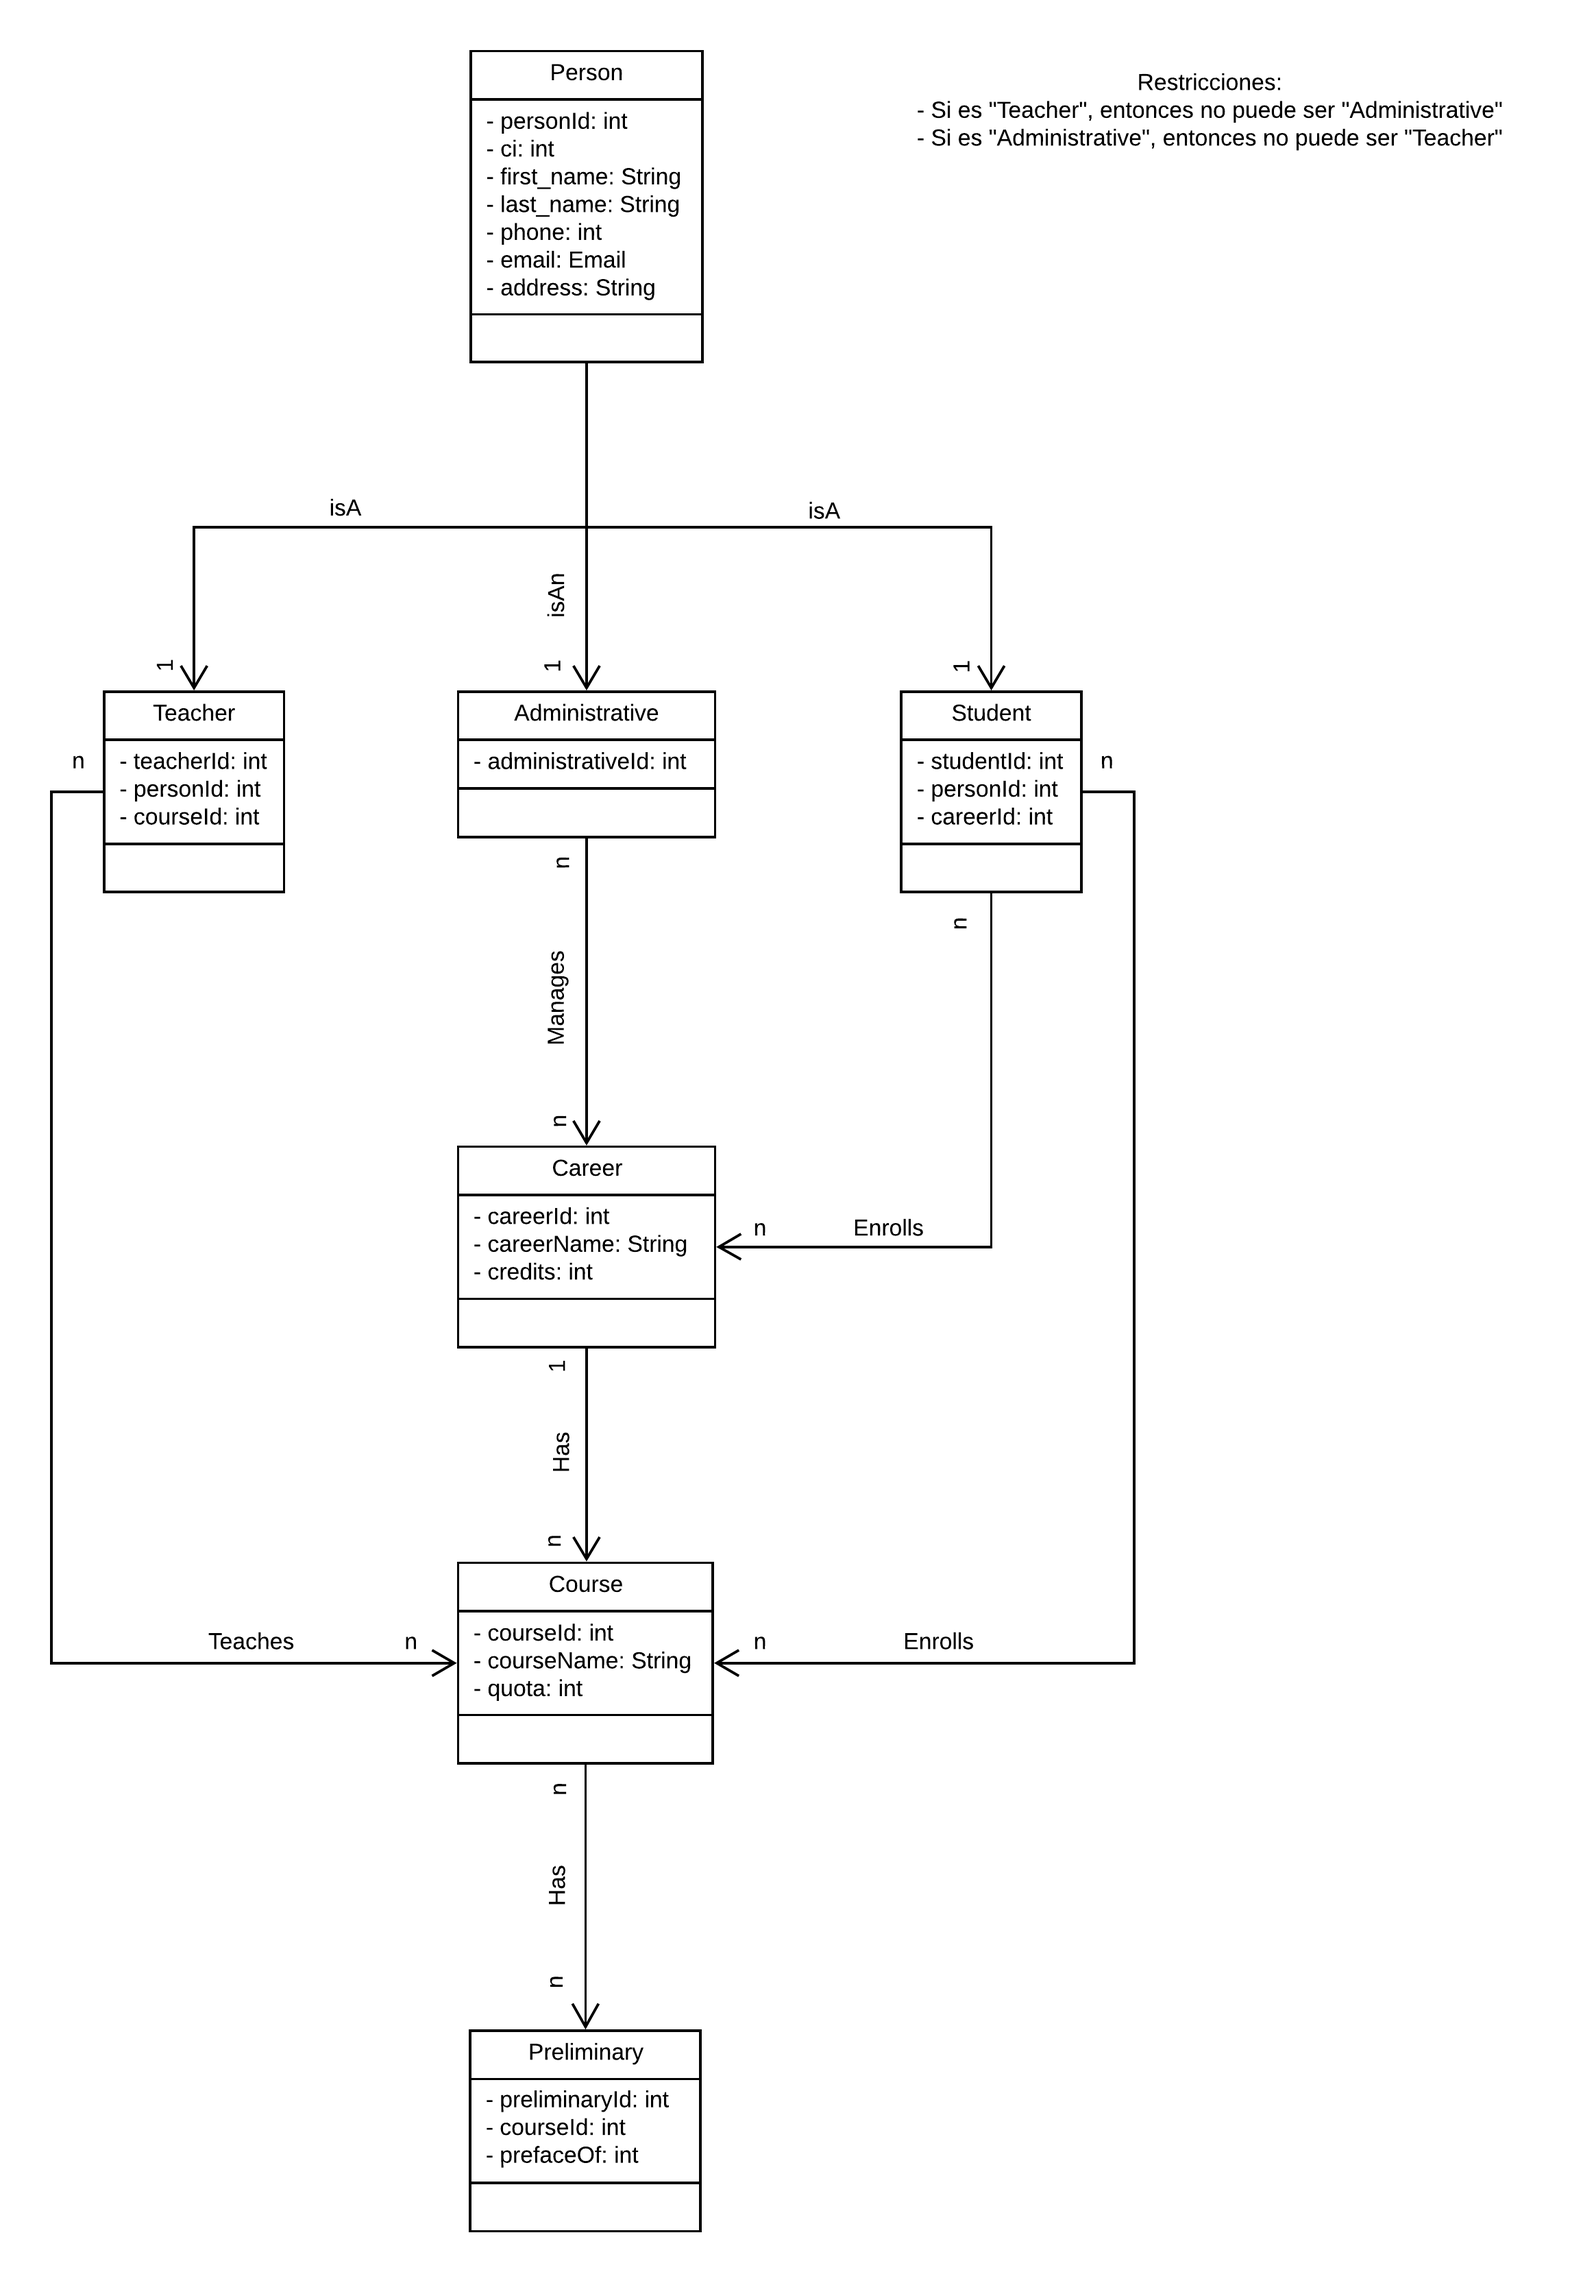
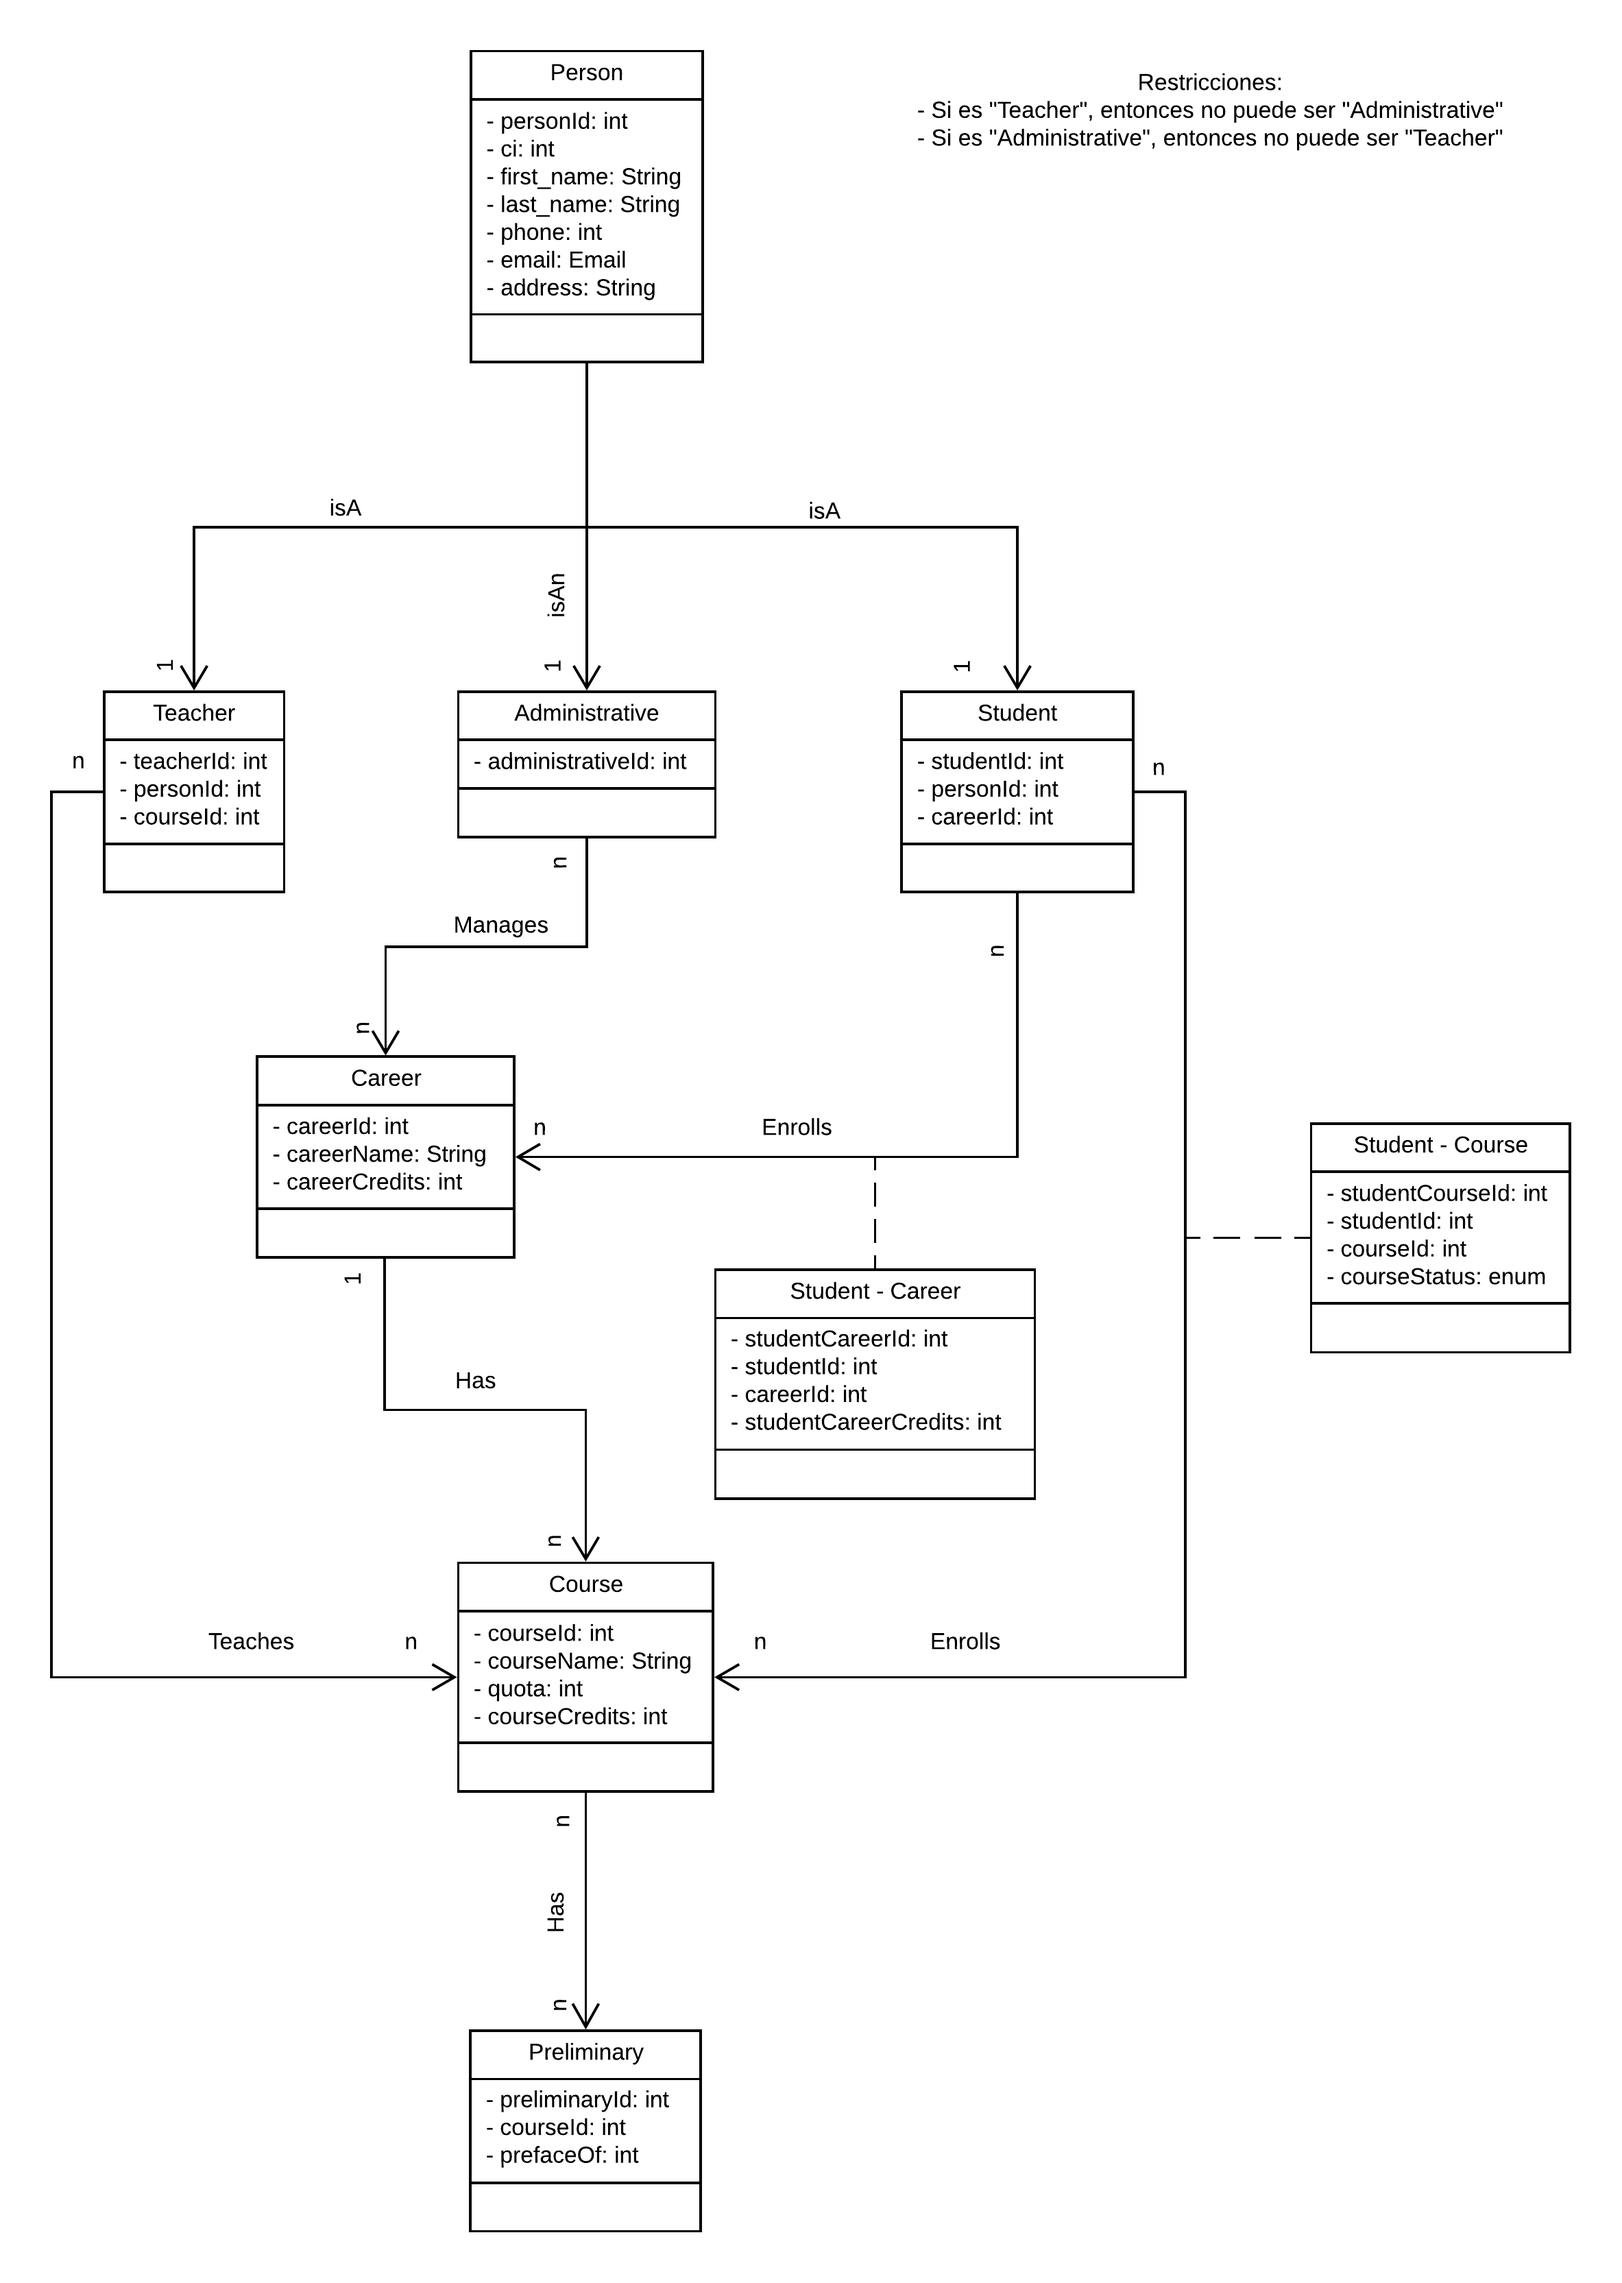
NEW: Created serializers. UPD: Updated diagram. UPD: Updated models.

diff --git a/university/models.py b/university/models.py
@@ -2,18 +2,34 @@ from django.db import models
 
 
 class Course(models.Model):
-    courseId = models.IntegerField("Course Id", primary_key=True, unique=True, auto_created=True)
-    courseName = models.CharField("Course Name", max_length=255)
+    course_id = models.IntegerField("Course Id", primary_key=True, unique=True, auto_created=True)
+    course_name = models.CharField("Course Name", max_length=255)
     quota = models.IntegerField("Quota")
+    course_credits = models.IntegerField("Course Credits")
 
 
 class Preliminary(models.Model):
-    preliminaryId = models.IntegerField("Preliminary Id", primary_key=True, unique=True, auto_created=True)
-    courseId = models.ForeignKey(Course, models.CASCADE, related_name='course')
-    prefaceOf = models.ForeignKey(Course, models.CASCADE, related_name='preface')
+    preliminary_id = models.IntegerField("Preliminary Id", primary_key=True, unique=True, auto_created=True)
+    course = models.ForeignKey(Course, models.CASCADE, related_name='course')
+    preface_of = models.ForeignKey(Course, models.CASCADE, related_name='preface')
 
 
 class Career(models.Model):
-    careerId = models.IntegerField("Career Id", primary_key=True, unique=True, auto_created=True)
-    careerName = models.CharField("Career Name", max_length=255)
-    credits = models.IntegerField("Credits")
+    career_id = models.IntegerField("Career Id", primary_key=True, unique=True, auto_created=True)
+    career_name = models.CharField("Career Name", max_length=255)
+    career_credits = models.IntegerField("Career Credits")
+
+
+class StudentCourse(models.Model):
+
+    class CourseStatuses(models.TextChoices):
+        PASS = 'PASS'
+        EXAM = 'EXAM'
+        FAIL = 'FAIL'
+        STUDYING = 'STUDYING'
+
+    student_course_id = models.IntegerField("Student Course Id", primary_key=True, unique=True, auto_created=True)
+    student = models.ForeignKey('person.Student', models.CASCADE)
+    course = models.ForeignKey(Course, models.CASCADE)
+    course_status = models.CharField(max_length=8, choices=CourseStatuses.choices)
+

diff --git a/person/models.py b/person/models.py
@@ -1,10 +1,8 @@
 from django.db import models
 
-from university.models import Course, Career
-
 
 class Person(models.Model):
-    personId = models.IntegerField("Person Id", primary_key=True, unique=True, auto_created=True)
+    person_id = models.IntegerField("Person Id", primary_key=True, unique=True, auto_created=True)
     ci = models.IntegerField("CI", unique=True)
     password = models.CharField("Password", max_length=255)
     first_name = models.CharField("First Name", max_length=255)
@@ -20,17 +18,17 @@ class Person(models.Model):
 
 
 class Teacher(models.Model):
-    teacherId = models.IntegerField("Teacher Id", primary_key=True, unique=True, auto_created=True)
-    personId = models.ForeignKey(Person, models.CASCADE)
-    courseId = models.ForeignKey(Course, models.CASCADE)
+    teacher_id = models.IntegerField("Teacher Id", primary_key=True, unique=True, auto_created=True)
+    person = models.ForeignKey(Person, models.CASCADE)
+    course = models.ForeignKey('university.Course', models.CASCADE)
 
 
 class Student(models.Model):
-    studentId = models.IntegerField("Student Id", primary_key=True, unique=True, auto_created=True)
-    personId = models.ForeignKey(Person, models.CASCADE)
-    careerId = models.ForeignKey(Career, models.CASCADE)
+    student_id = models.IntegerField("Student Id", primary_key=True, unique=True, auto_created=True)
+    person = models.ForeignKey(Person, models.CASCADE)
+    career = models.ForeignKey('university.Career', models.CASCADE)
 
 
 class Administrative(models.Model):
-    administrativeId = models.IntegerField("Administrative Id", primary_key=True, unique=True, auto_created=True)
-    personId = models.ForeignKey(Person, models.CASCADE)
+    administrative_id = models.IntegerField("Administrative Id", primary_key=True, unique=True, auto_created=True)
+    person = models.ForeignKey(Person, models.CASCADE)

diff --git a/person/serializers.py b/person/serializers.py
@@ -1,19 +1,40 @@
 from rest_framework import serializers
-from .models import *
+from person.models import *
 
 
-# class PersonSerializer(serializers.ModelSerializer):
-#     class Meta:
-#         model = Person
-#         fields = (
-#             'personId',
-#             'ci',
-#             'password',
-#             'first_name',
-#             'last_name',
-#             'phone',
-#             'email',
-#             'address',
-#             'createdAt',
-#             'active',
-#         )
+# Serializers allow complex data such as query sets and model instances to be converted to native Python datatypes
+# that can then be easily rendered into JSON, XML or other content types.
+
+class PersonSerializer(serializers.ModelSerializer):
+    class Meta:
+        model = Person
+        fields = (
+            'person_id',
+            'ci',
+            'password',
+            'first_name',
+            'last_name',
+            'phone',
+            'email',
+            'address',
+            'created_at',
+            'active',
+        )
+
+
+class TeacherSerializer(serializers.ModelSerializer):
+    class Meta:
+        model = Teacher
+        fields = ('teacher_id', 'person', 'course')
+
+
+class StudentSerializer(serializers.ModelSerializer):
+    class Meta:
+        model = Student
+        fields = ('student_id', 'person', 'career')
+
+
+class AdministrativeSerializer(serializers.ModelSerializer):
+    class Meta:
+        model = Administrative
+        fields = ('administrative_id', 'person')

diff --git a/university/serializers.py b/university/serializers.py
@@ -1,0 +1,26 @@
+from rest_framework import serializers
+from .models import *
+
+
+class CourseSerializer(serializers.ModelSerializer):
+    class Meta:
+        model = Course
+        fields = ('course_id', 'course_name', 'quota', 'course')
+
+
+class PreliminarySerializer(serializers.ModelSerializer):
+    class Meta:
+        model = Preliminary
+        fields = ('preliminary_id', 'course', 'preface_of')
+
+
+class CareerSerializer(serializers.ModelSerializer):
+    class Meta:
+        model = Career
+        fields = ('career_id', 'career_name', 'credits')
+
+
+class StudentCourse(serializers.ModelSerializer):
+    class Meta:
+        model = StudentCourse
+        fields = ('student_course_id', 'student', 'course', 'course_status')
